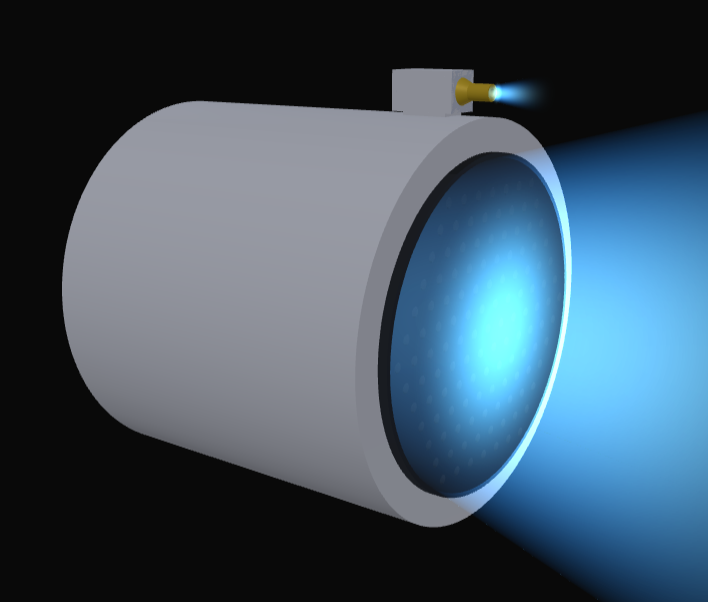
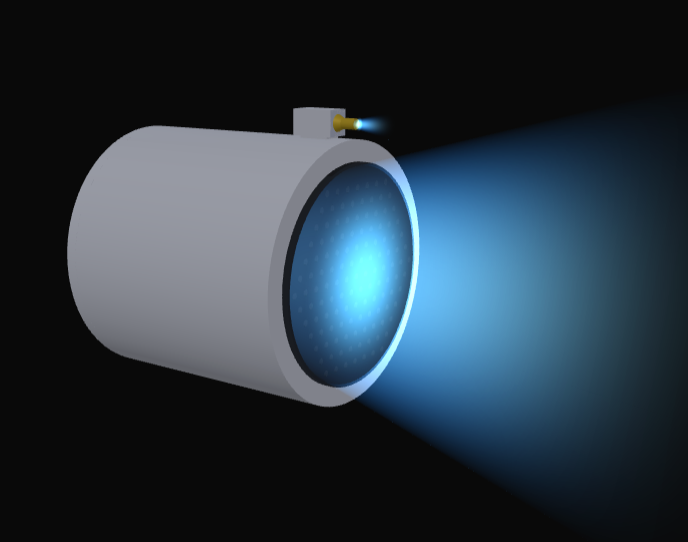
Landing page: reword Gridded Ion Engine card + refresh thumbnail

diff --git a/index.html b/index.html
@@ -338,8 +338,8 @@
       <span class="card-num">Electric Propulsion</span>
       <h2>Gridded Ion Engine</h2>
       <p>
-        Put the physics together in a real thruster. Explore an interactive 3D model, then walk through ionization,
-        the accelerating grids, and neutralization. How does each stage turn inert gas into thrust?
+        Explore an exemplary electrostatic thruster: the gridded ion engine. Discover its components, stages,
+        and working principles. What are the key stages of the gridded ion engine, and what key components does it rely upon?
       </p>
     </a>
 